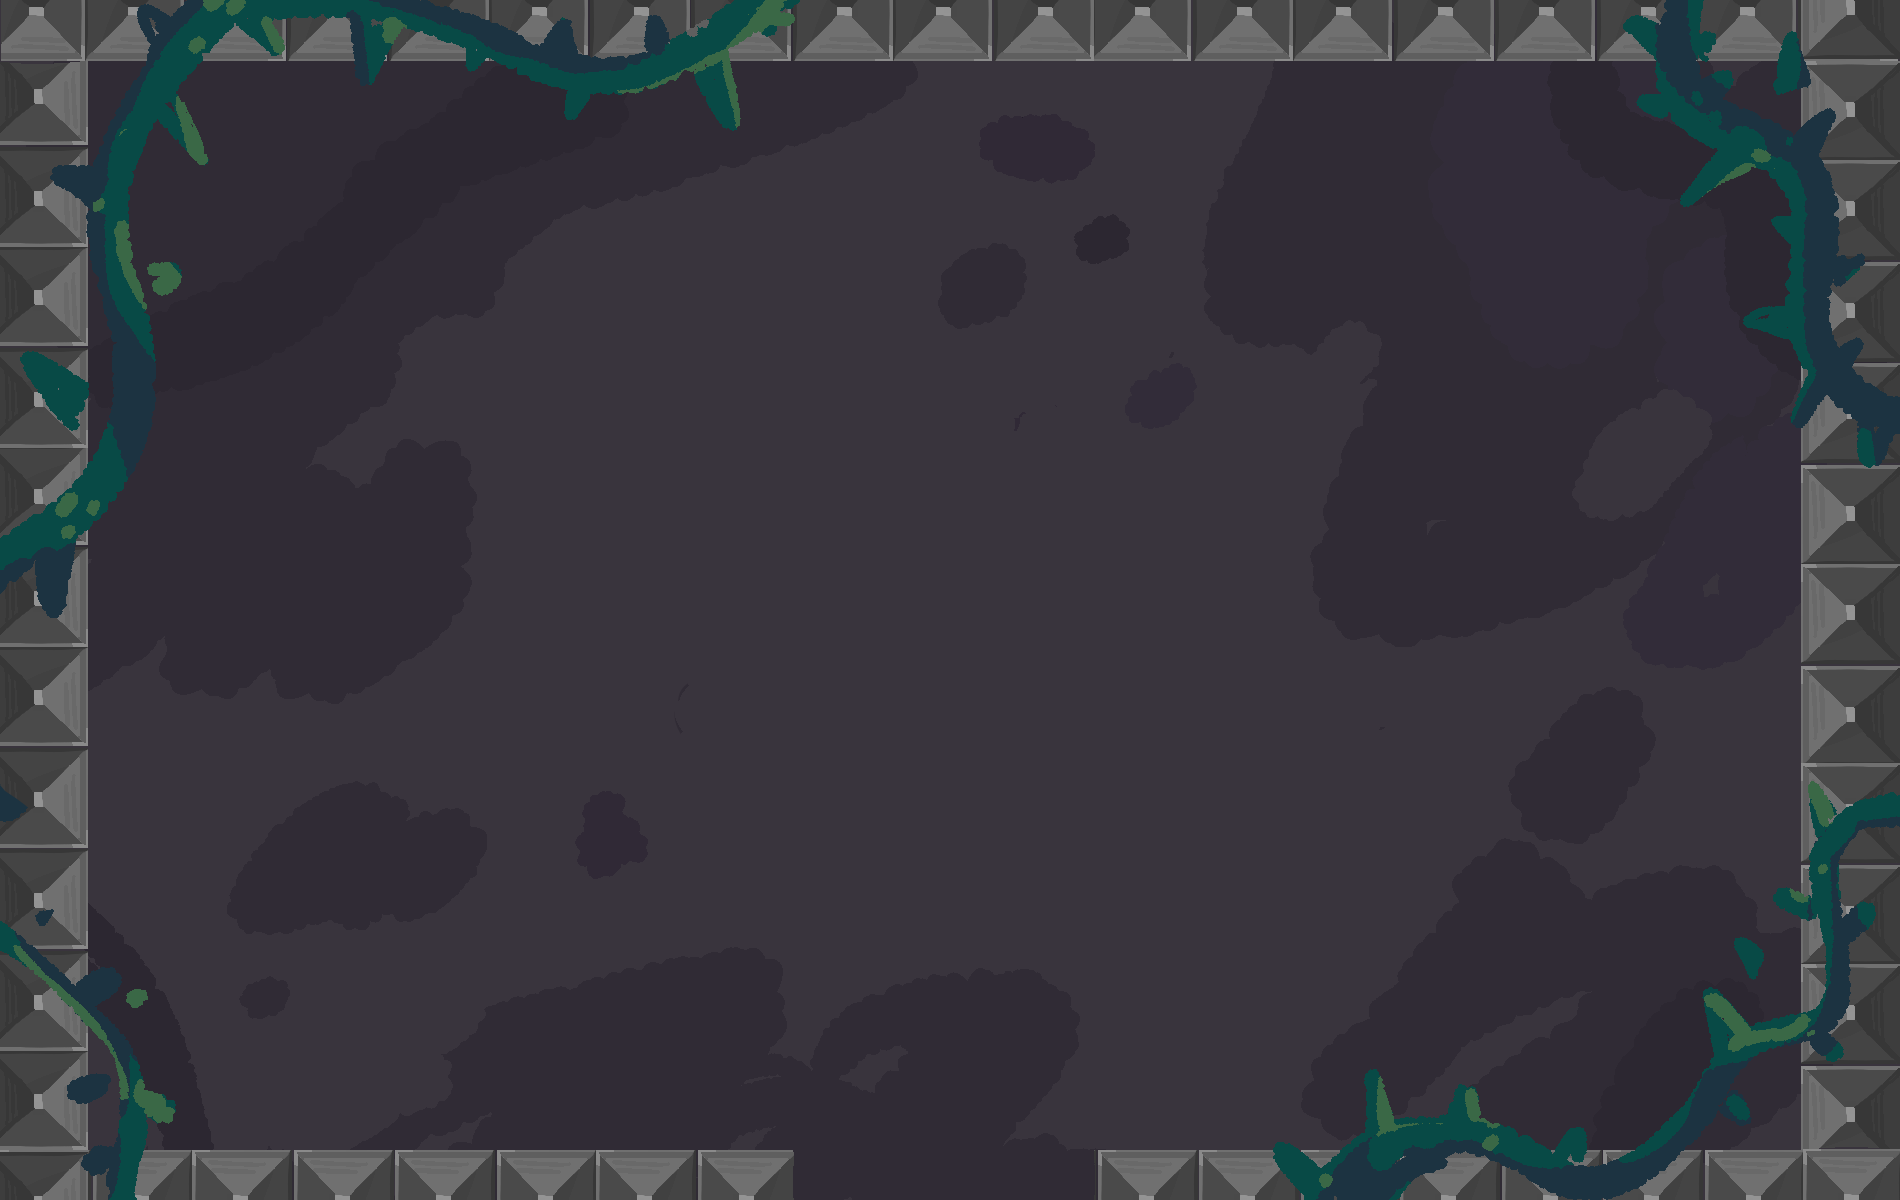
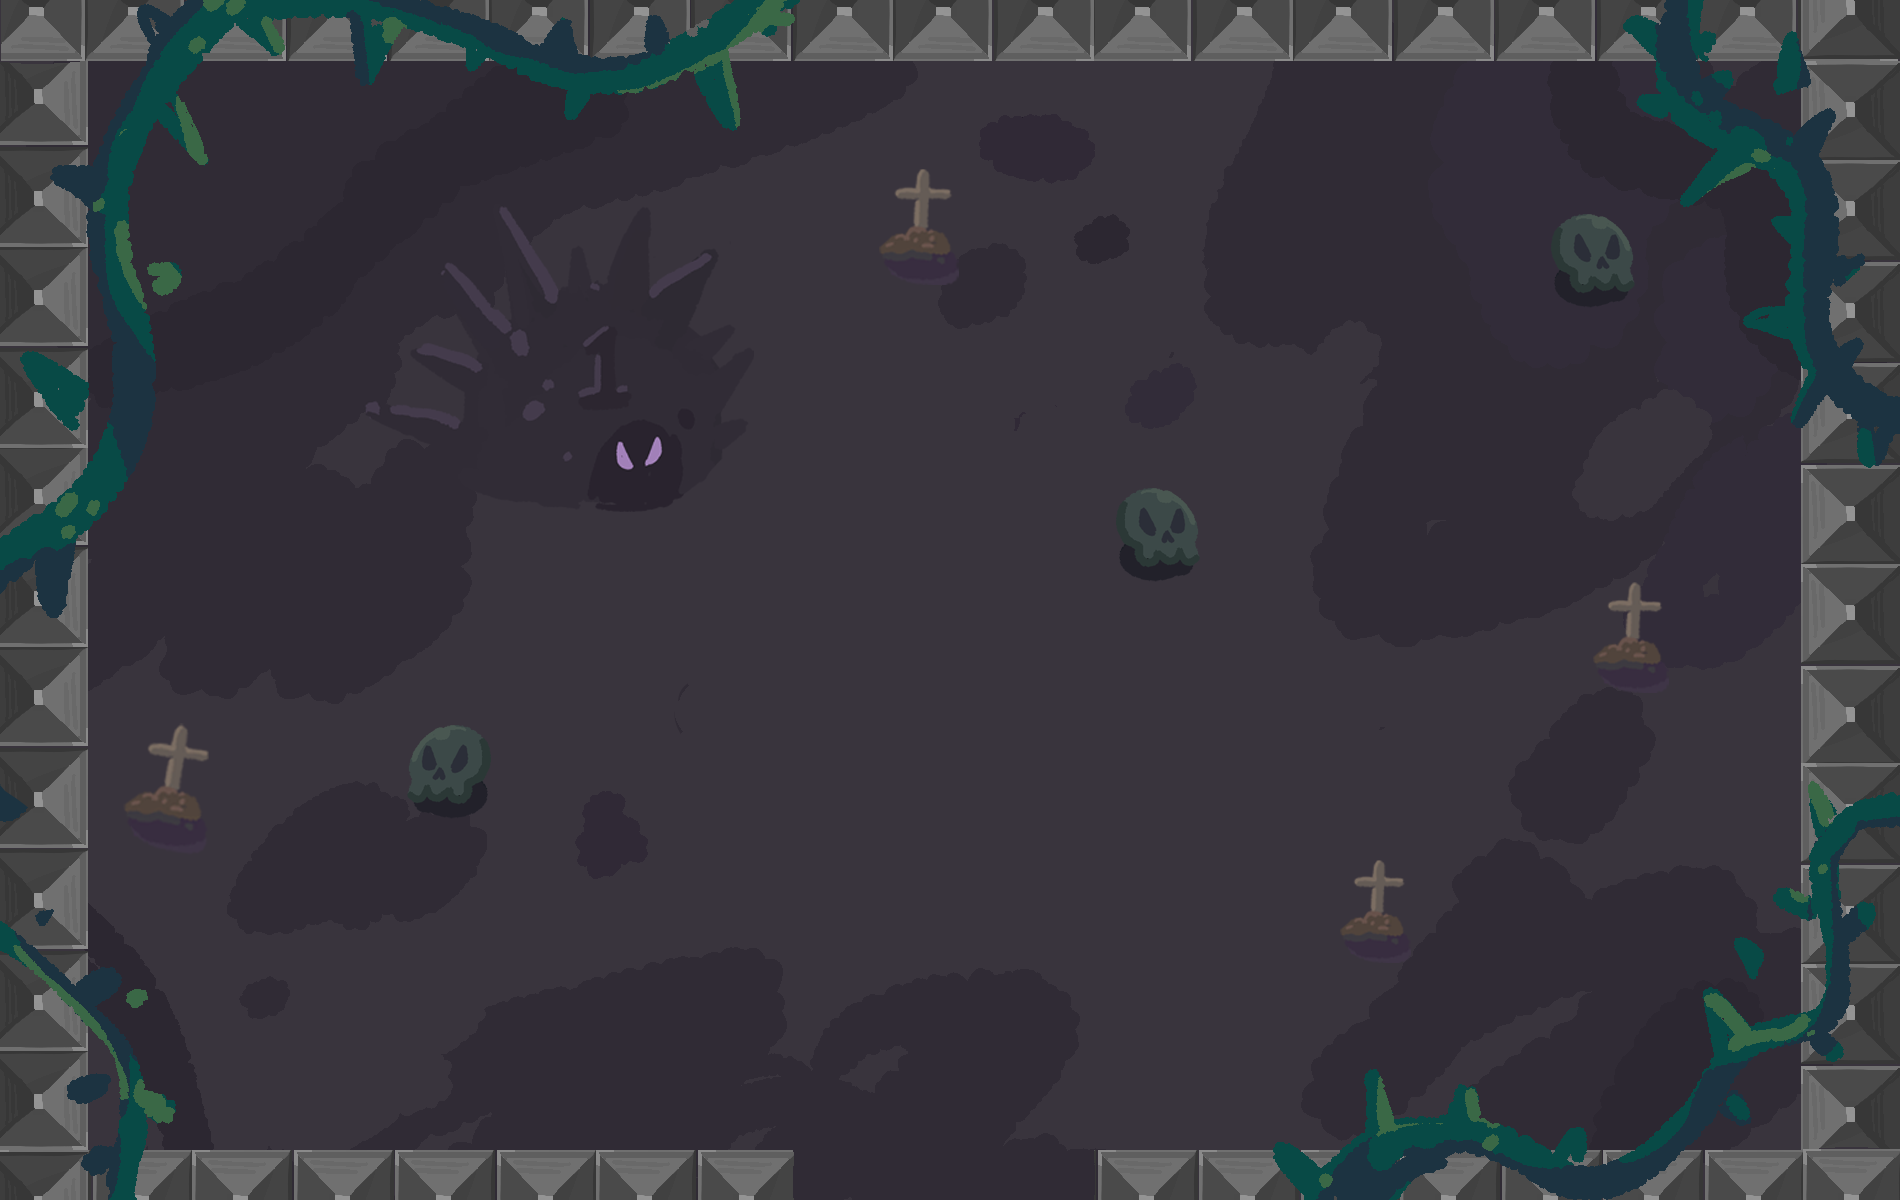
background photoshop

diff --git a/src/game.py b/src/game.py
@@ -128,7 +128,7 @@ class Game:
         for group in self.bonus_lst:
             for sprite in group.sprites():
                 sprite.expire_time += 1
-                if pygame.sprite.spritecollide(sprite, boundary.group, False) or pygame.sprite.spritecollide(sprite, self.bosssprite, False):
+                if pygame.sprite.spritecollide(sprite, boundary.group, False):
                     sprite.kill()
 
                 
@@ -293,7 +293,7 @@ class Game:
             else:
 
                 # 將 background 顯示在screen上
-                self.renderer.screen.blit(self.renderer.photo_dct["bg"], (const.map_x, const.map_y))
+                self.renderer.screen.blit(self.renderer.theme_ghost["bg_1"], (const.map_x, const.map_y))
 
                 # 將主角顯示在screen上
                 ########改!!

diff --git a/src/bonus.py b/src/bonus.py
@@ -9,7 +9,7 @@ class Bonus(pygame.sprite.Sprite):
         pygame.sprite.Sprite.__init__(self)
         
         # 隨機挑選 bonus 種類，給予不同的權重
-        self.index = random.randint(0, 100)
+        self.index = random.randint(0, 120)
         if 0 <= self.index <= 60: 
             self.type = const.bonus_type[0]
         elif 60 < self.index <= 80:
